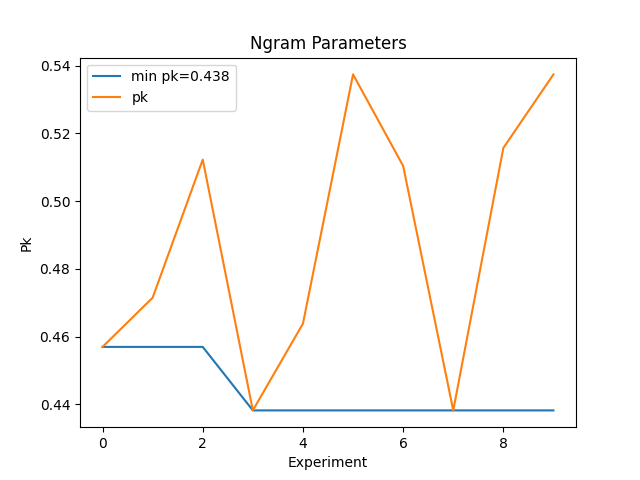
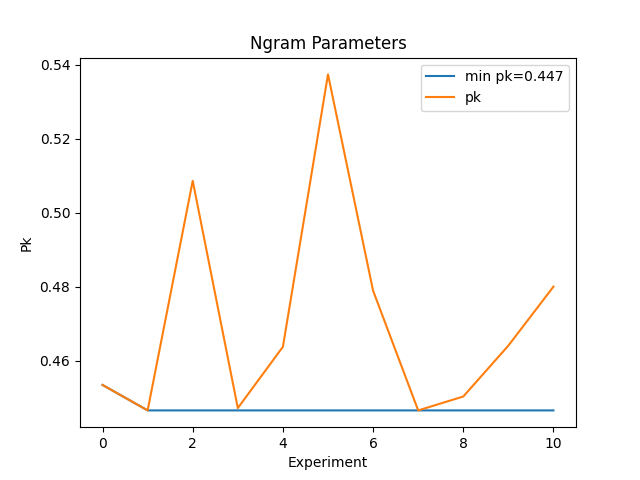
added ngram_results

diff --git a/sentence_builder/ngram_splitter.py b/sentence_builder/ngram_splitter.py
@@ -1,8 +1,12 @@
+import os
 import numpy as np
 import pandas as pd
 
 from nltk.lm import MLE
+from pathlib import Path
 from nltk.lm.preprocessing import padded_everygram_pipeline
+from segmentation_metrics import break_seq_p_k, get_casas_data, get_aruba_data
+from segmentation_metrics import precision_recall
 
 
 class NgramSentenceBuilder:
@@ -40,3 +44,24 @@ class NgramSentenceBuilder:
 
         return self.break_pts
 
+
+def ngram_results(dataset_getter, data_name, opt_ws, opt_bp):
+
+    folder_path = Path(os.path.dirname(__file__)) / 'data'
+    true_sent_breaks, casas_df = dataset_getter(folder_path)
+
+    model = NgramSentenceBuilder(casas_df["Description_ID"], window_size=opt_ws, break_percentile=opt_bp)
+    model.build_sentences()
+
+    predicted_break_pts = model.break_pts
+    true_sentences = sorted(true_sent_breaks)
+    p_k = break_seq_p_k(predicted_break_pts, true_sentences)
+    f_score = precision_recall(true_sentences, predicted_break_pts, len(casas_df))[3]
+
+    print(f'Ngram check, dataset: {data_name}')
+    print(f'p_k: {p_k}, f_score: {f_score}')
+
+
+if __name__ == '__main__':
+    # ngram_results(get_casas_data, 'Kyoto', opt_ws=5, opt_bp=0.05)
+    ngram_results(get_aruba_data, 'Aruba', opt_ws=10, opt_bp=0.01)
